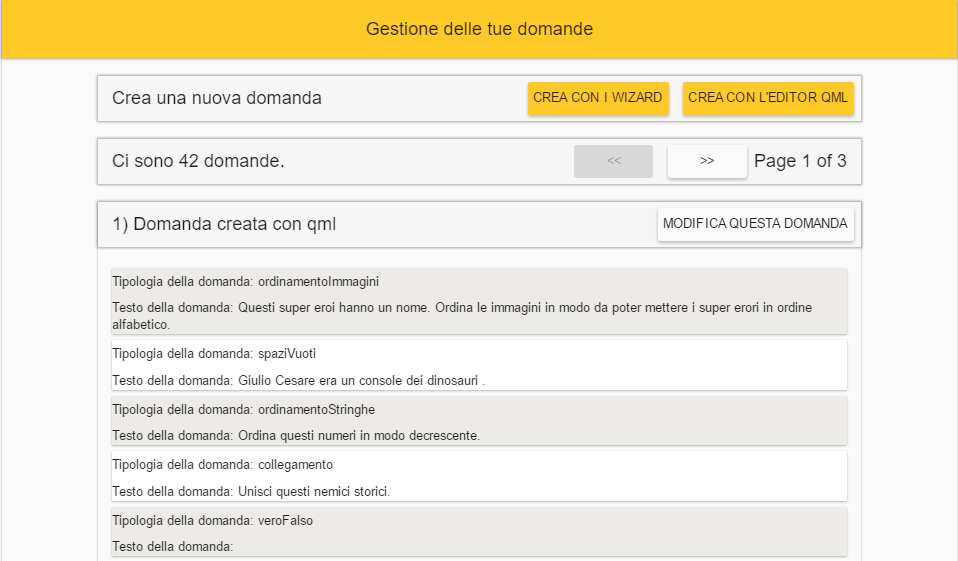
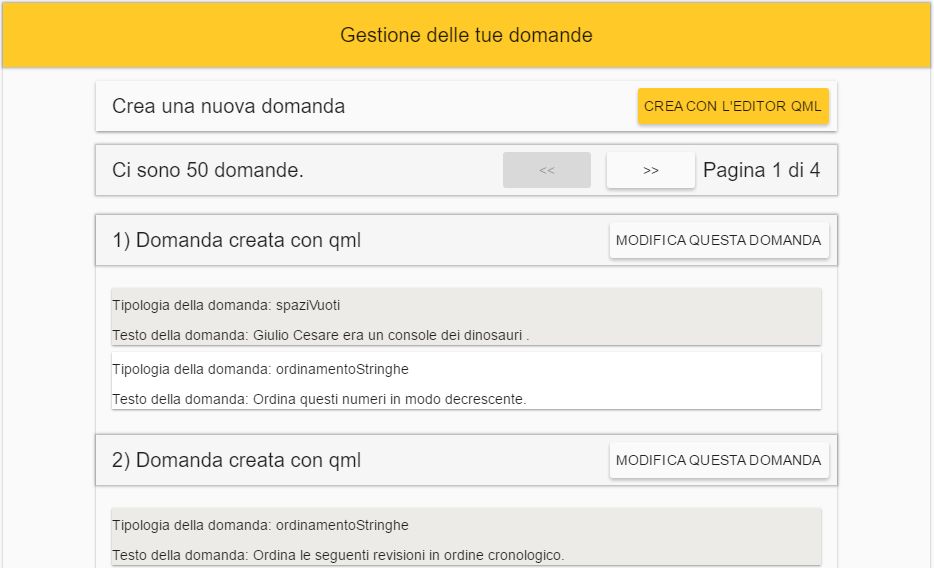
MU

Changed region(s): [[0.0, 0.0, 1.0, 1.0], [0.1242, 0.9697, 0.8694, 1.0]]

diff --git a/RA/ManualeUtente/sezioni/GestioneDomande.tex b/RA/ManualeUtente/sezioni/GestioneDomande.tex
@@ -5,23 +5,45 @@ Selezionata la voce \textit{Gestione delle domande} dal menù a sinistra il sist
 \label{GestioneDomande}
 \begin{figure}[ht]
 	\centering
-	\includegraphics[scale=0.45]{img/gestione_domande.png}
+	\includegraphics[scale=0.50]{img/gestione_domande.png}
 	\caption{Gestione delle domande}
 \end{figure}
 \FloatBarrier
 
-All'interno della pagina è visibile l'elenco di tutte le domande create, con la possibilità di modificarle. E' possibile poi creare una nuova domanda attraverso due differenti funzionalità: \textit{CREA CON I WIZARD} e \textit{CREA CON L'EDITOR QML}.
+All'interno della pagina è visibile l'elenco di tutte le domande create, con la possibilità di modificarle. E' possibile poi creare una nuova domanda cliccando sul pulsante \textit{CREA CON L'EDITOR QML}.
 
 \newpage
-\subsection{Crea domanda tramite QML}
+\subsection{Creazione domanda}
 Selezionata la voce \textit{CREA CON L'EDITOR QML} il sistema porta l'utente alla seguente pagina, nella quale potrà creare una nuova domanda digitando codice \textit{QML\ped{G}} (si veda Appendice A) direttamente nell'editor di testo presentato:
 
 \label{CreaDomandaQML}
 \begin{figure}[ht]
 	\centering
-	\includegraphics[scale=0.40]{img/domanda_qml.png}
-	\caption{Crea domanda tramite QML}
+	\includegraphics[scale=0.45]{img/creazione_domanda.png}
+	\caption{Crea domanda}
 \end{figure}
 \FloatBarrier
 
 Digitato il corretto codice della domanda nell'editor, sarà possibile cliccare il pulsante \textit{CONFERMA CREAZIONE DELLA DOMANDA} per creare la domanda. Essa sarà così visibile all'interno dell'elenco presentato nella pagina \textit{Gestione domande}.
+
+\newpage
+\subsection{Modifica domanda}
+Una volta creata, la domanda appare all'interno dell'elenco delle proprie domande. L'utente ha la possibilità di modificarla cliccando sul pulsante \textit{MODIFICA QUESTA DOMANDA} che si trova affianco ad ogni domanda:
+
+\label{ModificaDomanda}
+\begin{figure}[ht]
+	\centering
+	\includegraphics[scale=0.50]{img/modifica_domanda.png}
+	\caption{Modifica domanda}
+\end{figure}
+\FloatBarrier
+
+Viene dunque presentato all'utente l'editor con all'interno la domanda in codice QML. L'utente ha la possibilità di modificare il codice ed infine di confermare le modifiche:
+
+\label{ModificaEditor}
+\begin{figure}[ht]
+	\centering
+	\includegraphics[scale=0.45]{img/modifica_editor.png}
+	\caption{Modifica domanda con editor}
+\end{figure}
+\FloatBarrier 

diff --git a/RA/ManualeUtente/sezioni/GestioneQuestionari.tex b/RA/ManualeUtente/sezioni/GestioneQuestionari.tex
@@ -10,6 +10,7 @@ Selezionata la voce \textit{Gestione questionari} dal menù a sinistra il sistem
 \end{figure}
 \FloatBarrier
 
+\newpage
 \subsection{Crea un nuovo questionario}
 Selezionando la voce \textit{CREA UN NUOVO QUESTIONARIO} si avvia la funzionalità di creazione di un questionario:
 
@@ -23,15 +24,20 @@ Selezionando la voce \textit{CREA UN NUOVO QUESTIONARIO} si avvia la funzionalit
 
 Sara possibile scegliere un \textit{Titolo} e un \textit{Argomento} da associare al questionario che si sta creando. In più si potranno inserire le domande ricercandole tra le proprie create oppure all'interno del sistema, digitando le parole chiave associate. Compilati tutti i campi dati necessari il bottone \textit{CREA IL QUESTIONARIO} viene abilitato e permetterà di creare il questionario. 
 
-\subsection{Visualizza questionari creati}
-Selezionando la voce \textit{VISUALIZZA QUESTIONARI CREATI} è possibile visualizzare i propri questionari:
+\newpage
+\subsection{Gestione questionari creati}
+Dopo il pulsante di creazione questionari, la pagina mostra un elenco di tutti i questionari creati dall'utente. Per ogni questionario è possibile:
+\begin{itemize}
+	\item Gestire le iscrizioni;
+	\item Abilitarlo alla compilazione.
+\end{itemize}
 
-\label{VisualizzaQuestionari}
+\label{GestioneQuestionario}
 \begin{figure}[ht]
 	\centering
-	\includegraphics[scale=0.55]{img/visualizza_questionari.png}
-	\caption{Visualizza questionari}
+	\includegraphics[scale=0.55]{img/gestione_questionario.png}
+	\caption{Gestione questionario}
 \end{figure}
 \FloatBarrier
 
-A fianco del titolo di ogni questionario compare un bottone che porta alla gestione delle iscrizioni al proprio questionario creato. Si potrà dunque decidere chi, tra gli utenti richiedenti l'iscrizione, abilitare e chi no.
+Nella sezione \textit{GESTISCI LE ISCRIZIONI}, l'utente può visualizzare tutti gli utenti iscritti al questionario e decidere, per ognuno, se abilitarli alla compilazione o meno. Cliccando infine sul bottone \textit{ABILITA ALLA COMPILAZIONE}, ogni utente precedentemente abilitato può ora compilare il questionario. 

diff --git a/RA/ManualeUtente/sezioni/GestioneProfilo.tex b/RA/ManualeUtente/sezioni/GestioneProfilo.tex
@@ -12,8 +12,28 @@ Il servizio permette ad un utente autenticato di aggiornare e/o modificare i pro
 \label{GestioneProfilo}
 \begin{figure}[ht]
 	\centering
-	\includegraphics[scale=0.45]{img/gestione_profilo.png}
+	\includegraphics[scale=0.50]{img/gestione_profilo.png}
 	\caption{Gestione profilo}
 \end{figure}
 \FloatBarrier
 
+Non è possibile modificare la propria username una volta inserita in fase di registrazione.
+In questa sezione il sistema permette anche di cambiare la propria tipologia di account. Se l'utente è di tipo \textit{normale} ha la possibilità di passare ad utente di tipo \textit{pro} e viceversa:
+
+\label{CambioTipologiaAccount}
+\begin{figure}[ht]
+	\centering
+	\includegraphics[scale=0.50]{img/cambia_tipologia.png}
+	\caption{Cambio tipologia account}
+\end{figure}
+\FloatBarrier
+
+In fine l'utente può eliminare il proprio account dal sistema e tutti i dati annessi:
+
+\label{EliminaAccount}
+\begin{figure}[ht]
+	\centering
+	\includegraphics[scale=0.50]{img/elimina_account.png}
+	\caption{Eliminazione account}
+\end{figure}
+\FloatBarrier
